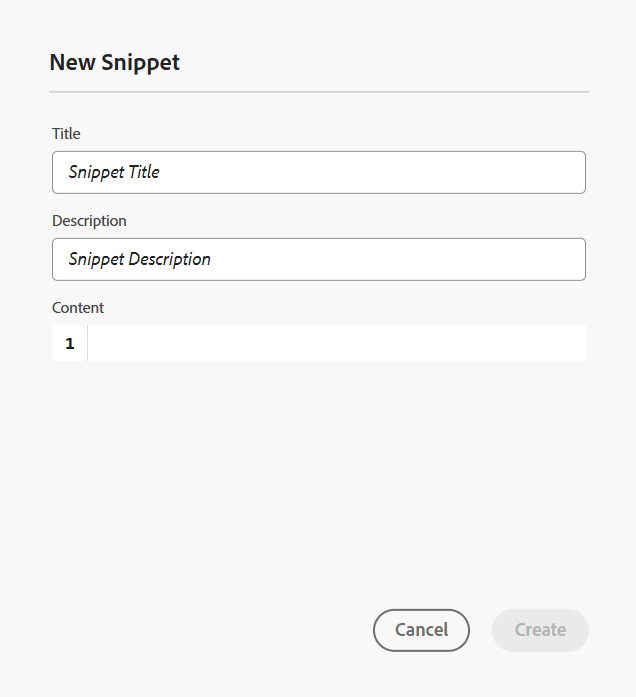
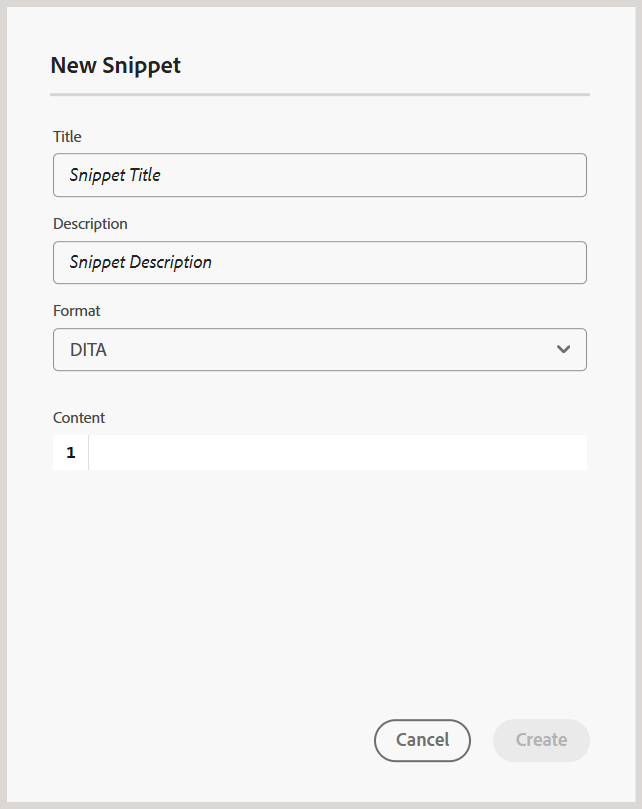
Updated docs
Updated left panel and api doc

diff --git a/help/product-guide/api-reference/introduction.md b/help/product-guide/api-reference/introduction.md
@@ -14,6 +14,69 @@ Adobe Experience Manager Guides \(later referred as *AEM Guides*\) is an end-to-
 
 The AEM Guides APIs are available in two formats: HTTP and Java. These APIs expose key functions of AEM Guides to application developers. Using these functions, developers can create their own plug-ins to extend the out-of-the-box workflows. The APIs are available around managing outputs for DITA content, working with DITA maps, adding conditional attributes to folder-level profiles, and converting HTML and Words documents to DITA format.
 
+
+### Java-based APIs
+
+You can use Java-based APIs available in Experience Manager Guides to create custom plugins and extend out-of-the-box workflows. View [![javadoc](https://javadoc.io/badge2/com.adobe.aem/aem-guides-sdk-api/javadoc.svg)](https://javadoc.io/doc/com.adobe.aem/aem-guides-sdk-api) for the latest and detailed documentation on using the Java-based API.
+
+## Configure and use the service API JAR from public Maven repository 
+
+Perform the following steps to configure and use the service API JARs from the public Maven repository in your projects:
+
+1.  To use the service API JAR in a project, configure AEM Guides public Maven repository in your pom.xml file.
+2.  Configure the public Maven repository in Maven's settings.xml file as follows:
+
+    ```XML
+    <repository>
+       <id>fmdita-public</id>
+       <name>fmdita-public</name>
+       <url>https://repo.aem-guides.com/repository/fmdita-public</url>
+    </repository>
+    ```
+
+3.  Once the repository is setup, add the service API JAR as a project dependency in the project's pom.xml file.
+
+    >[!NOTE]
+    >
+    > Use the same version of the API JAR as the AEM Guides package which you have installed on the server.
+
+4.  Configure the Maven dependency as shown below:
+
+    ```XML
+    <dependency>
+       <groupId>com.adobe.fmdita</groupId>
+       <artifactId>api</artifactId>
+       <version>4.0</version>
+    </dependency>
+    ```
+
+
+Once service API JAR is added as a project dependency in the project's pom.xml file, you can build and use AEM Guides Java APIs in your project.
+
+
+## Using API JAR from Maven Central repository for AEM Guides as a Cloud Service 
+
+For AEM Guides as a Cloud Service the API JAR has been deployed to Maven Central. You can use the API JAR without any setup.
+
+>[!NOTE] 
+>
+> The naming convention of the API jar has been updated as per the cloud add-ons naming convention.
+
+To use the API JAR, you need to add the dependency to your project's pom.xml as shown below:
+
+```XML
+<dependency>
+   <groupId>com.adobe.aem</groupId>
+   <artifactId>aem-dox-sdk-api</artifactId>
+   <version>${RELEASE}</version>
+</dependency>
+```
+
+>[!NOTE] 
+>
+> Since the packages inside the API JAR are still the same, no code change is required to use this API JAR in the existing cloud projects.
+
+
 ## Installing the JARs on your local Apache Maven repository {#install-jar-local}
 
 To be able to use the JAR files exposed by AEM Guides, you need to install them on your local Apache Maven repository. Perform the following steps to install the JARs on your location Maven repository:
@@ -161,65 +224,7 @@ After installing the API JARs in your local Maven repository, perform the follow
     ```
 
 
-## Configure and use the service API JAR from public Maven repository 
 
-Perform the following steps to configure and use the service API JARs from the public Maven repository in your projects:
-
-1.  To use the service API JAR in a project, configure AEM Guides public Maven repository in your pom.xml file.
-2.  Configure the public Maven repository in Maven's settings.xml file as follows:
-
-    ```XML
-    <repository>
-       <id>fmdita-public</id>
-       <name>fmdita-public</name>
-       <url>https://repo.aem-guides.com/repository/fmdita-public</url>
-    </repository>
-    ```
-
-3.  Once the repository is setup, add the service API JAR as a project dependency in the project's pom.xml file.
-
-    >[!NOTE]
-    >
-    > Use the same version of the API JAR as the AEM Guides package which you have installed on the server.
-
-4.  Configure the Maven dependency as shown below:
-
-    ```XML
-    <dependency>
-       <groupId>com.adobe.fmdita</groupId>
-       <artifactId>api</artifactId>
-       <version>4.0</version>
-    </dependency>
-    ```
-
-
-Once service API JAR is added as a project dependency in the project's pom.xml file, you can build and use AEM Guides Java APIs in your project.
-
-## Using API JAR from Maven Central repository for AEM Guides as a Cloud Service 
-
-For AEM Guides as a Cloud Service the API JAR has been deployed to Maven Central. You can use the API JAR without any setup.
-
->[!NOTE] 
->
-> The naming convention of the API jar has been updated as per the cloud add-ons naming convention.
-
-To use the API JAR, you need to add the dependency to your project's pom.xml as shown below:
-
-```XML
-<dependency>
-   <groupId>com.adobe.aem</groupId>
-   <artifactId>aem-dox-sdk-api</artifactId>
-   <version>${RELEASE}</version>
-</dependency>
-```
-
->[!NOTE] 
->
-> Since the packages inside the API JAR are still the same, no code change is required to use this API JAR in the existing cloud projects.
-
-### Java-based APIs
-
-You can use Java-based APIs available in Experience Manager Guides to create custom plugins and extend out-of-the-box workflows. View [![javadoc](https://javadoc.io/badge2/com.adobe.aem/aem-guides-sdk-api/javadoc.svg)](https://javadoc.io/doc/com.adobe.aem/aem-guides-sdk-api) for the latest and detailed documentation on using the Java-based API.
 
 
 

diff --git a/help/product-guide/user-guide/web-editor-left-panel.md b/help/product-guide/user-guide/web-editor-left-panel.md
@@ -948,28 +948,34 @@ Snippets are small content fragments that can be reused across various topics in
 >
 > The following screenshot is of a user with administrative privileges. As a user with administrative privileges, you can add, edit, and delete snippets. Else, as a normal author, you will only get the options to preview and insert a snippet.
 
-![](images/snippets-panel_cs.png){   align="left"}
+![](images/snippets-panel_cs.png){align="left"}
+
+**Create a snippet**
 
 To add a snippet, use any of the following methods:
 
-- Select the **+** icon next to Snippets to open the **New Snippet** dialog box.
+1. Select the **+** icon next to Snippets to open the **New Snippet** dialog box.
 
     ![](images/snippet-new-dialog.png){width="300" align="left"}
 
-    In the New Snippet dialog box, provide a title which appears in the Snippets panel, a description, and XML code of the snippet content that you want to create. Select **Create** to save and create the snippet.
+    In the New Snippet dialog, provide a Title which appears in the Snippets panel, a Description, select a Format (DITA or HTML) for your content, and provide a code of the snippet content that you want to create. Select **Create** to save and create the snippet.
 
-- In the content editing area, right-click on the element's breadcrumb that you want to use as a snippet and choose **Create Snippet** from the context menu. The New Snippet dialog appears with the XML code of the selected element populated in the **Content** field. Enter the **Title** and **Description** for the snippet and select **Create** to save the snippet.
+2. In the content editing area, right-click on the element's breadcrumb that you want to use as a snippet and choose **Create Snippet** from the context menu. The New Snippet dialog appears with the XML code of the selected element populated in the **Content** field. Enter the **Title** and **Description** for the snippet and select **Create** to save the snippet.
 
-- In the content editing area, right-click anywhere on the content that you want to use as a snippet and choose **Create Snippet** from the context menu. The New Snippet dialog box appears with the XML code of the selected element populated in the **Content** field. Enter the **Title** and **Description** for the snippet and select **Create** to save the snippet.
+3. In the content editing area, right-click anywhere on the content that you want to use as a snippet and choose **Create Snippet** from the context menu. The New Snippet dialog box appears with the XML code of the selected element populated in the **Content** field. Enter the **Title** and **Description** for the snippet and select **Create** to save the snippet.
 
     The following screenshot highlights the breadcrumb and the content area from where you can invoke the context menu.
 
     ![](images/snippet-create-from-breadcrumb-content.png){width="350" align="left"}
 
+**Insert a snippet**
 
 To insert a snippet, use any of the following methods:
 
-- Select a snippet from the Snippets panel and drag-and-drop it at the desired location in your topic.
+- Select a snippet from the Snippets panel and drag-and-drop it at the desired location in your topic. You can also use the filter options at the top of the Snippets panel to refine your view:
+
+    - **Show all snippets**: Lists all the available snippets, including both HTML and DITA formats.
+    - **Show only applicable snippets**: Filters the list to show only those snippets that are relevant to your current topic or context. For example, if you're working on a DITA topic, HTML snippets will be excluded from the list to ensure contextual accuracy.
 
 - Place the insertion point where you want to insert the snippet, from the Options menu of the required snippet, choose Insert Snippet.
 
